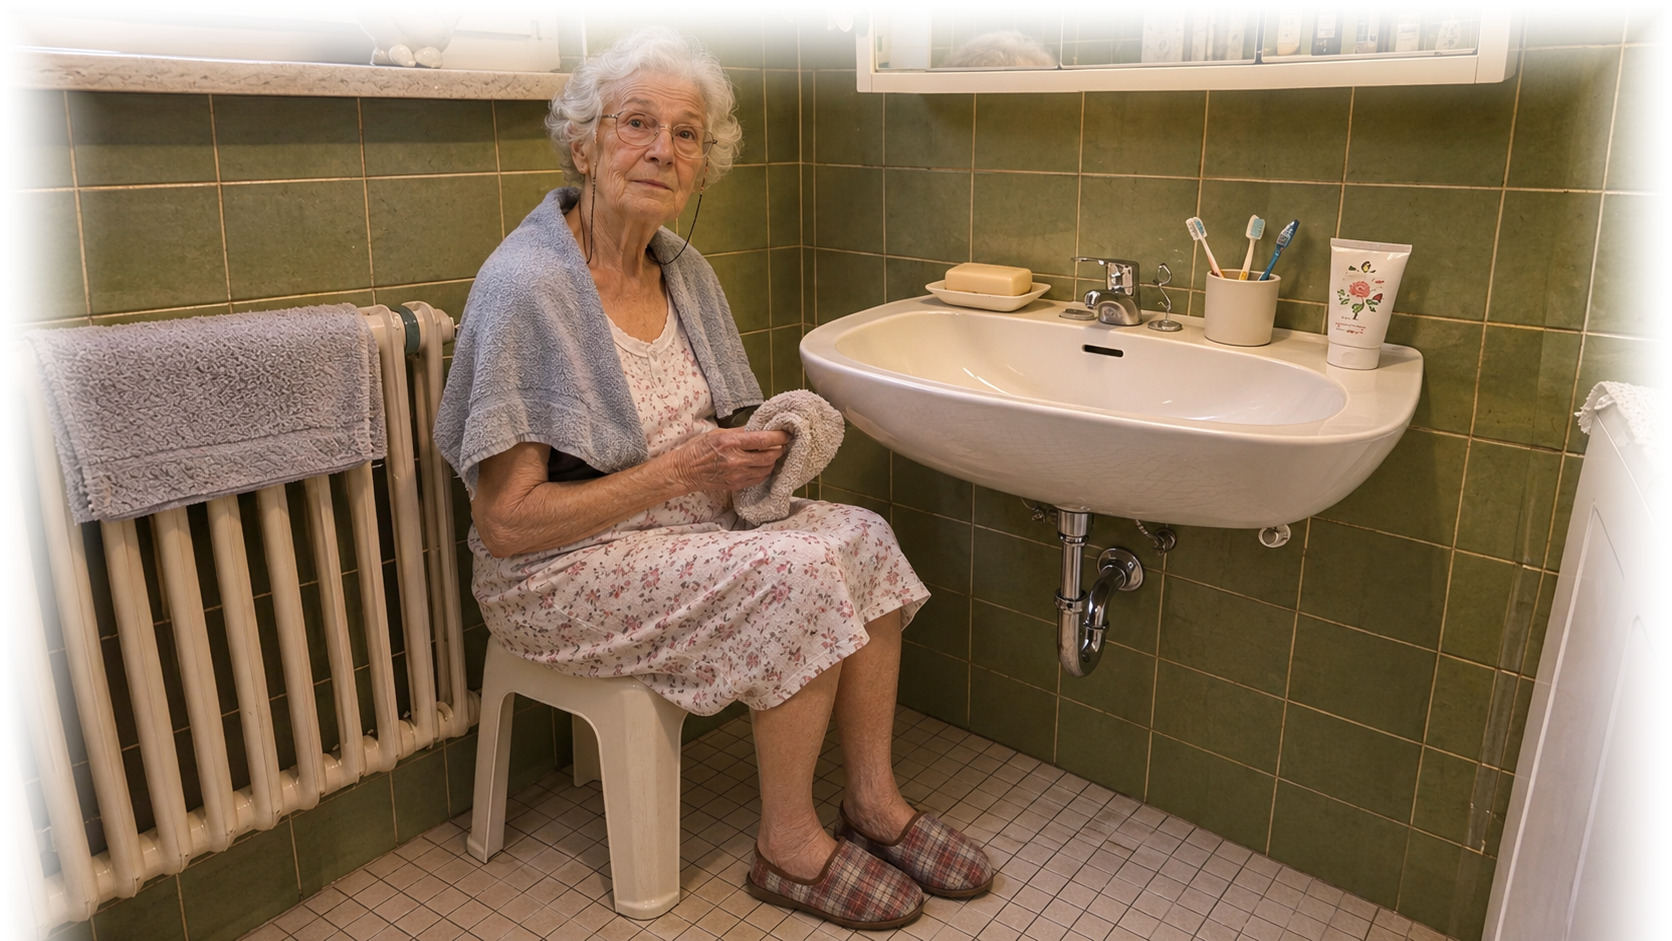
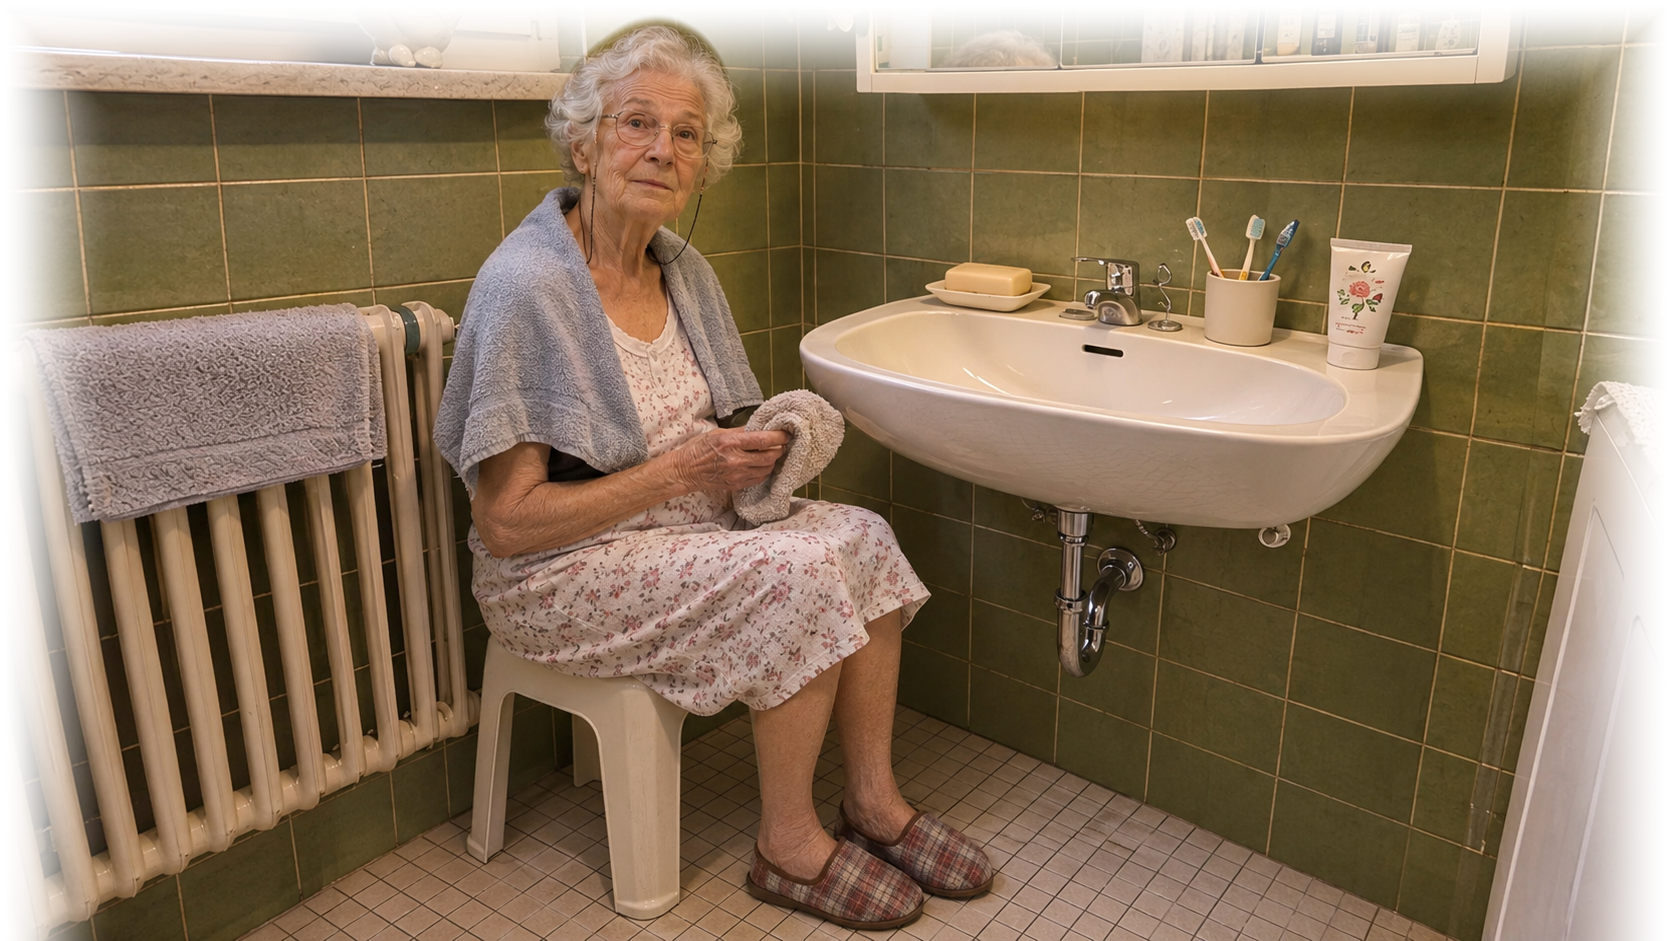
Bad: Kopf nicht mehr vom Rand abgeschnitten
Claude-Session: https://claude.ai/code/session_018xz3hR1CffNQymSRTgJLxV

Changed region(s): [[0.3421, 0.0, 0.4354, 0.0925]]

diff --git a/engel/spiel.html b/engel/spiel.html
@@ -591,7 +591,7 @@ const BAD_DINGE = [
 async function szene7() {
   // Im Bad: Intimsphäre, Kälte, Selbstständigkeit, Notruf
   const bad = await buildRoom('bad');
-  if (!bad.engel) bad.engel = addBild(bad, { u: 0.46, v: 0.6, hfov: 95, aspect: 16 / 9, src: 'figur/engel_bad_bild.png', cx: 731, cy: 766, w: 2590, h: 1458 });
+  if (!bad.engel) bad.engel = addBild(bad, { u: 0.46, v: 0.6, hfov: 95, aspect: 16 / 9, src: 'figur/engel_bad_bild.png?v=2', cx: 731, cy: 766, w: 2590, h: 1458 });
   await goRoom('bad', 0.47, STAND, 0.3); hotspots = BAD_DINGE;
   const strasse = playTon('sfx_strasse', 0.35, true);
   let fensterZu = false, tuerZu = false, warm = false;
